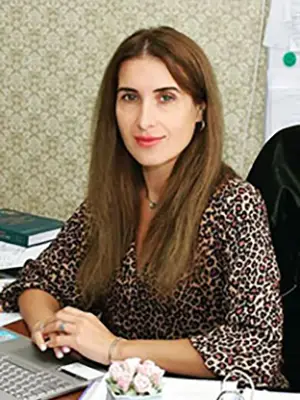
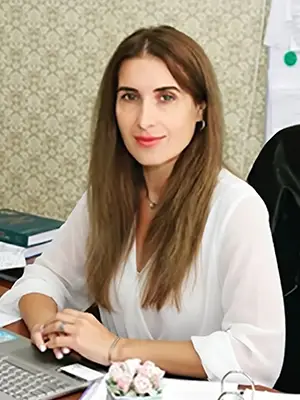
add: areas of activity

diff --git a/app/[locale]/activity/areas-of-activity/page.tsx b/app/[locale]/activity/areas-of-activity/page.tsx
@@ -1,54 +1,64 @@
 import { MainLayout } from "@app/components/templates";
+import { getTranslations } from "next-intl/server";
 
-const areas = [
-  {
-    title: "Аналіз безпеки реакторних установок",
-    text: "Розробка та верифікація розрахункових кодів, детермінований та імовірнісний аналіз безпеки, оцінка стійкості активних зон реакторів.",
-  },
-  {
-    title: "Радіаційний захист та дозиметрія",
-    text: "Нормування радіаційного опромінення персоналу та населення, розробка методів і засобів захисту від іонізуючого випромінювання.",
-  },
-  {
-    title: "Радіоекологія та поводження з РАВ",
-    text: "Дослідження міграції радіонуклідів у навколишньому середовищі, оцінка радіаційного стану Чорнобильської зони відчуження.",
-  },
-  {
-    title: "Проектування об'єктів ядерно-паливного циклу",
-    text: "Наукове супроводження проектів будівництва та модернізації ядерних об'єктів, обґрунтування ядерної та радіаційної безпеки.",
-  },
-  {
-    title: "Нормативно-технічна база",
-    text: "Розробка нормативних документів, стандартів і регламентів для регулювання ядерної та радіаційної безпеки в Україні.",
-  },
-];
+type Principle = {
+  title: string;
+  description: string;
+};
 
-export default function AreasOfActivity() {
+export default async function AreasOfActivity() {
+  const t = await getTranslations("areasOfActivityPage");
+  const principles = t.raw("principles") as Principle[];
+  const directions = t.raw("directions.items") as string[];
+
   return (
     <MainLayout>
-      <article className="flex flex-col gap-5 text-[#002766] p-2">
-        <h2 className="text-xl font-bold border-b-2 border-[#51749E] pb-2">
-          Напрями діяльності
-        </h2>
+      <article className="p-2 text-[#002766] md:p-4">
+        <header className="rounded-2xl border border-[#c8d8ea] bg-gradient-to-br from-white via-[#f4f9fc] to-[#dcebf6] p-5 shadow-sm md:p-8">
+          <p className="text-xs font-bold uppercase tracking-[0.14em] text-[#51749E]">{t("eyebrow")}</p>
+          <h1 className="mt-2 text-2xl font-bold leading-tight md:text-4xl">{t("title")}</h1>
+          <p className="mt-4 max-w-4xl text-sm leading-7 text-[#294e70] md:text-base">{t("intro")}</p>
+        </header>
 
-        <p className="text-sm leading-relaxed">
-          Наукові дослідження Інституту охоплюють широкий спектр задач, пов'язаних із забезпеченням безпеки
-          атомної енергетики та радіаційним захистом населення.
-        </p>
-
-        <div className="flex flex-col gap-3">
-          {areas.map(({ title, text }, i) => (
-            <div key={title} className="flex gap-4 p-4 rounded-lg bg-[#EFF4FB] border border-[#c8d8ea]">
-              <span className="shrink-0 w-8 h-8 rounded-full bg-[#0061AA] text-white font-bold flex items-center justify-center text-sm">
-                {i + 1}
-              </span>
-              <div className="flex flex-col gap-1">
-                <p className="font-semibold text-sm">{title}</p>
-                <p className="text-xs leading-relaxed text-gray-700">{text}</p>
-              </div>
+        <section aria-label={t("principlesLabel")} className="mt-6 grid gap-4 lg:grid-cols-3">
+          {principles.map((principle, index) => (
+            <div
+              key={principle.title}
+              className={index === 1
+                ? "rounded-xl bg-[#07518F] p-5 text-white shadow-sm md:p-6"
+                : "rounded-xl border border-[#c8d8ea] bg-white p-5 shadow-sm md:p-6"}
+            >
+              <p className={index === 1
+                ? "text-xs font-bold uppercase tracking-[0.14em] text-[#b9d9ec]"
+                : "text-xs font-bold uppercase tracking-[0.14em] text-[#51749E]"}
+              >
+                {principle.title}
+              </p>
+              <p className={index === 1
+                ? "mt-3 text-sm leading-7 text-[#f0f7fb]"
+                : "mt-3 text-sm leading-7 text-[#294e70]"}
+              >
+                {principle.description}
+              </p>
             </div>
           ))}
-        </div>
+        </section>
+
+        <section className="mt-5 rounded-xl border border-[#c8d8ea] bg-[#EFF4FB] p-5 md:p-7">
+          <h2 className="text-xl font-bold md:text-2xl">{t("directions.title")}</h2>
+          <p className="mt-3 max-w-4xl text-sm leading-7 text-[#294e70]">{t("directions.intro")}</p>
+
+          <ol className="mt-5 grid gap-4 md:grid-cols-2">
+            {directions.map((direction, index) => (
+              <li key={direction} className="flex gap-4 rounded-xl border border-[#c8d8ea] bg-white p-5 shadow-sm">
+                <span className="flex h-9 w-9 shrink-0 items-center justify-center rounded-full bg-[#07518F] text-sm font-bold text-white">
+                  {index + 1}
+                </span>
+                <p className="pt-1 text-sm font-semibold leading-7 text-[#294e70]">{direction}</p>
+              </li>
+            ))}
+          </ol>
+        </section>
       </article>
     </MainLayout>
   );

diff --git a/app/[locale]/qms/certificates-and-licenses/page.tsx b/app/[locale]/qms/certificates-and-licenses/page.tsx
@@ -1,6 +1,7 @@
 import { MainLayout } from "@app/components/templates";
 import { getTranslations } from "next-intl/server";
 import CertificateGallery, { type CertificateDocument } from "./CertificateGallery";
+import Link from "next/link";
 
 const documentAssets = [
   { imageSrc: "/qms/certificates-and-licenses/iso-9001.webp", width: 1000, height: 1452 },
@@ -31,6 +32,9 @@ export default async function CertificatesAndLicenses() {
         </section>
         <CertificateGallery documents={documents} openLabel={t("openLabel")} closeLabel={t("closeLabel")} />
       </article>
+      <Link href="/qms" className="mt-5 inline-flex rounded-lg border border-[#8fbad6] bg-[#dcebf6] px-4 py-2.5 text-sm font-bold text-[#07518F] transition hover:bg-[#cfe3f1]">
+        {t("backToQms")}
+      </Link>
     </MainLayout>
   );
 }